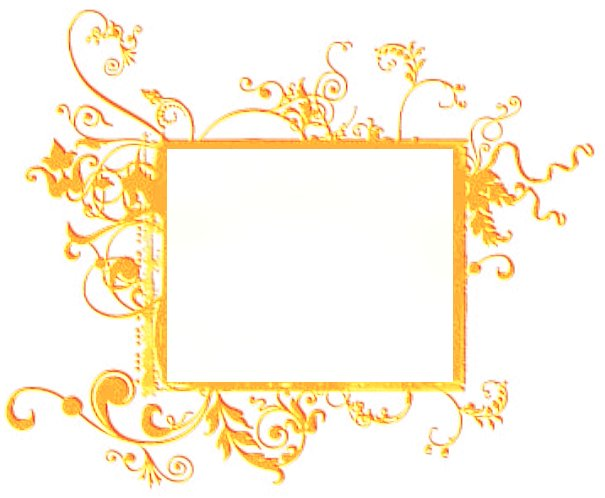
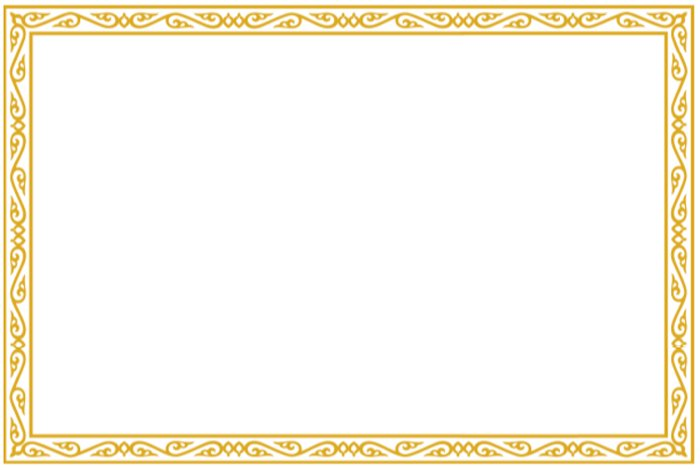
last minute styling ;)

diff --git a/styles/style.css b/styles/style.css
@@ -11,6 +11,10 @@ padding: 0;
     src: url(/brollopsgruppen/fonts/CharisSILI.ttf) format("truetype");    
 }
 
+textarea{
+	border: 1px solid #2E2D2A;
+}
+
 b, strong{
 	font-family: CharisSILB;
 }
@@ -298,6 +302,19 @@ background: transparent url(header_bkg.png) repeat-x scroll top center;}*/
 	margin-top: 50px;
 }
 
+#contact_form {
+	background-image: url('/brollopsgruppen/images/contact_background.jpg');
+	background-repeat: no-repeat;
+	background-position:center; 
+	width: 700px;
+	height: 500px;
+}
+
+#contact_form form{
+	padding-left: 100px;
+	padding-top: 80px;
+}
+
 .wrap {
 	position:relative;
 	min-width:700px;
@@ -354,6 +371,10 @@ background: transparent url(header_bkg.png) repeat-x scroll top center;}*/
 	padding-bottom: 20px;
 }
 
+.right_sidebar img{
+	padding-top: 10px;
+}
+
 .left_sidebar{
 	position: absolute;
 	top: 165px;
@@ -364,4 +385,8 @@ background: transparent url(header_bkg.png) repeat-x scroll top center;}*/
 	margin: 10px;
 	float: left;
 	padding-bottom: 20px
+}
+
+.left_sidebar img{
+	padding-top: 5px;
 }

diff --git a/application/views/show_contactform.php b/application/views/show_contactform.php
@@ -2,22 +2,30 @@
 echo validation_errors();
 
 
-echo form_open("main/send_contactform");
 echo '<h2 class="content_header">Kontakta oss!</h2>';
 echo '<div id="contact_form" class="content_main">';
+echo form_open("main/send_contactform");
 echo form_label('Ämne', 'title');
-echo form_input('title');
 echo '<br />';
+echo form_input('title');
 
+echo '<br />';
+$data = array(
+	'name' => 'content',
+	'style'=> 'width: 500px; border: 1px solid #DAA21 !important;'
+	);
 echo form_label('Meddelande', 'content');
-echo form_textarea('content');
+echo '<br />';
+echo form_textarea($data);
 echo '<br />';
 echo form_label('Email', 'email');
+echo '<br />';
 echo form_input('email');
-//echo '<br />';
+echo '<br />';
 echo form_label('Telefon', 'phone');
+echo '<br />';
 echo form_input('phone');
-//echo '<br />';
+echo '<br />';
 echo form_submit('submit', 'Skicka');
 echo '</div>';
 echo form_close();
